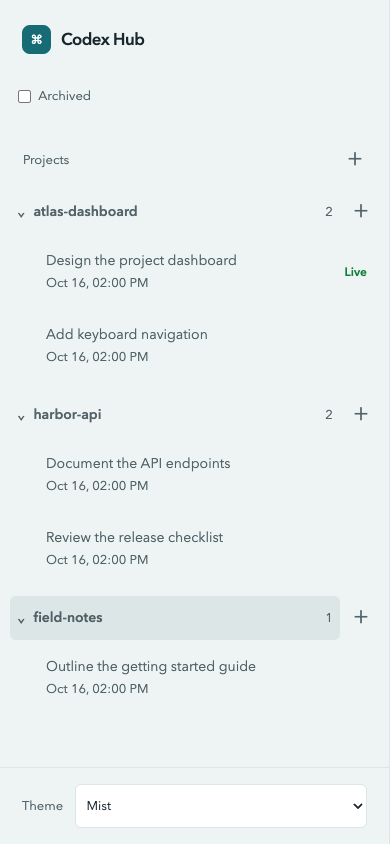
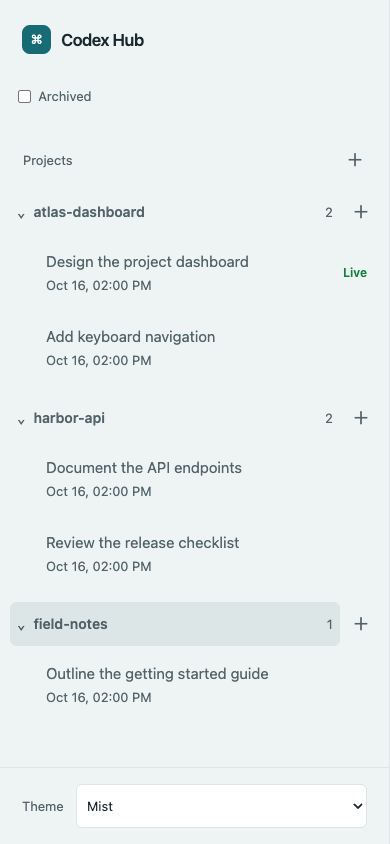
Align reading typography across Mist and Paper themes

diff --git a/src/client/styles/typography.css b/src/client/styles/typography.css
@@ -1,0 +1,100 @@
+/* Both palettes share editorial headings and system UI typography. */
+:root {
+  .reader-header h2,
+  .empty-state h2 {
+    letter-spacing: 0.01em;
+    line-height: 1.55;
+  }
+
+  .hub-project a {
+    font-size: 0.9375rem;
+  }
+
+  .message-content {
+    color: var(--body-ink);
+    line-height: 1.95;
+  }
+
+  .message-body :is(p, li) {
+    line-height: 1.95;
+    margin-bottom: 0.8em;
+  }
+
+  .message-body :is(h1, h2, h3, h4, h5, h6) {
+    margin-block: 1.6em 0.8em;
+    color: var(--ink);
+    font-family: var(--title-font);
+    font-weight: 500;
+    line-height: 1.55;
+  }
+
+  .message-body h1 {
+    font-size: 1.75rem;
+  }
+
+  .message-body h2 {
+    font-size: 1.625rem;
+    padding-top: 0.6em;
+    border-top: 1px solid var(--mist);
+  }
+
+  .message-body h3 {
+    font-size: 1.3125rem;
+  }
+
+  .message-body :is(h4, h5, h6) {
+    font-family: var(--body-font);
+    font-size: 1rem;
+    font-weight: 600;
+  }
+
+  .message-body :is(strong, b, th) {
+    font-weight: 600;
+  }
+
+  .message-content > :first-child {
+    margin-top: 0;
+  }
+
+  .message-content > :last-child {
+    margin-bottom: 0;
+  }
+
+  .message-body blockquote {
+    margin: 14px 0;
+    padding: 8px 20px;
+    border-left: 3px solid var(--quote-border);
+    border-radius: 0 4px 4px 0;
+    background: var(--selected-surface);
+  }
+
+  .message-body blockquote > :last-child {
+    margin-bottom: 8px;
+  }
+
+  .message-body code {
+    font-size: 0.92em;
+  }
+
+  .markdown-scroll-code pre {
+    padding: 12px;
+    line-height: 1.65;
+  }
+
+  .message-body pre code {
+    font-size: inherit;
+  }
+
+  .message-body :not(pre) > code {
+    padding: 0.1em 0.35em;
+    border: 1px solid var(--code-border);
+    border-radius: 4px;
+    background: var(--code-surface);
+  }
+
+  @media (max-width: 720px) {
+    .message-body h2 {
+      font-size: 1.4375rem;
+    }
+  }
+}

diff --git a/src/client/styles/tokens.css b/src/client/styles/tokens.css
@@ -53,9 +53,11 @@
   --current: #176b75;
   --human: #9d4e3a;
   --signal: #c4862d;
-  --title-font: var(--body-font);
-  --body-font: "Avenir Next", "PingFang SC", Inter, system-ui, sans-serif;
-  --mono-font: "SFMono-Regular", Consolas, monospace;
+  --title-font: "Songti SC", "STSong", "Noto Serif CJK SC", serif;
+  --body-font: -apple-system, BlinkMacSystemFont, "PingFang SC", "Microsoft YaHei", sans-serif;
+  --mono-font: ui-monospace, SFMono-Regular, Menlo, Consolas, monospace;
+  --body-ink: #48545b;
+  --quote-border: #6d9198;
   font-size: 16px;
   color: var(--ink);
   font-family: var(--body-font);
@@ -63,27 +65,29 @@
 }
 
 :root[data-theme="warm"] {
+  --body-ink: #48554d;
+  --quote-border: #6d9481;
   --paper: #f9f8f3;
-  --paper-deep: #f0f0e7;
+  --paper-deep: #f5f6ee;
   --surface: #fffefb;
   --ink: #263d36;
-  --ink-soft: #536157;
-  --mist: #ddded4;
+  --ink-soft: #737e72;
+  --mist: #dddeda;
   --current: #3e7563;
   --current-hover: #2c594a;
   --human: #965b3e;
   --signal: #a37732;
-  --hover-surface: #e9eddf;
-  --selected-surface: #e1e8d8;
-  --panel-surface: #eaece1;
-  --panel-soft: #eff1e8;
+  --hover-surface: #f5f6ee;
+  --selected-surface: #edf1e9;
+  --panel-surface: #edf1e9;
+  --panel-soft: #f5f6ee;
   --answer-ink: #385a43;
   --answer-border: #cbd6bd;
   --detail-ink: #32634f;
-  --notice-border: #cbd1bf;
-  --code-surface: #f0efe7;
+  --notice-border: #c7cec0;
+  --code-surface: #f5f6ee;
   --code-ink: #354239;
-  --code-border: #d6d7ca;
+  --code-border: #dddeda;
   --terminal-surface: #29352e;
   --terminal-output-surface: #202b24;
   --terminal-ink: #e4e9db;

diff --git a/src/client/styles/app.css b/src/client/styles/app.css
@@ -3,3 +3,4 @@
 @import "./events.css";
 @import "./interaction.css";
 @import "./management.css";
+@import "./typography.css";
